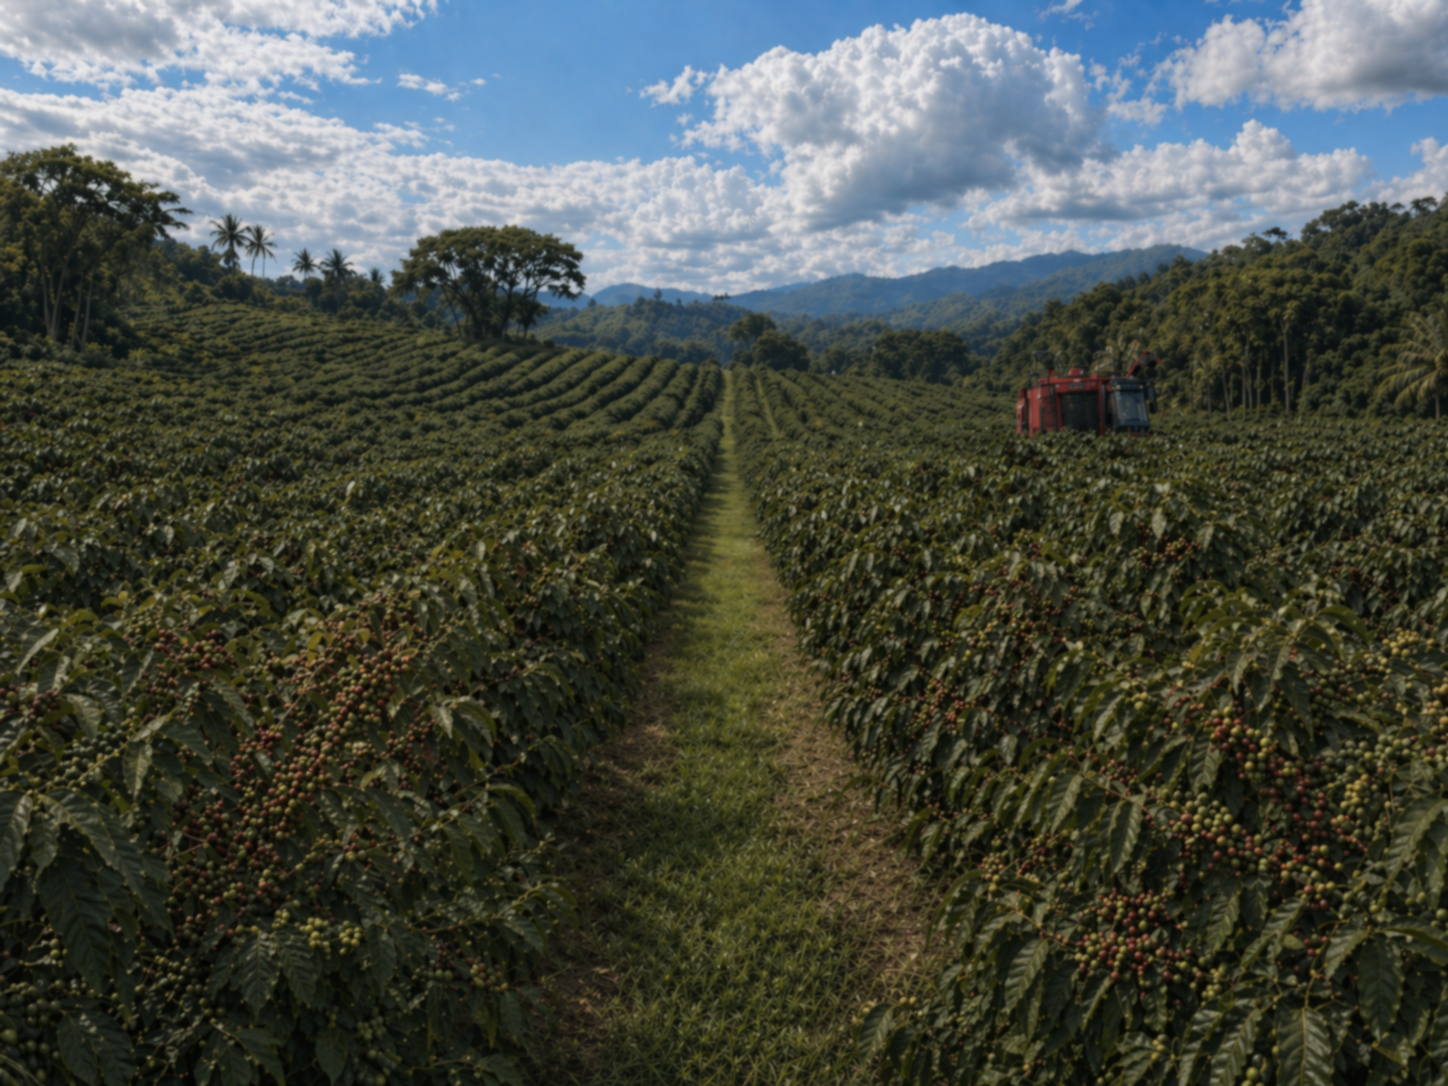
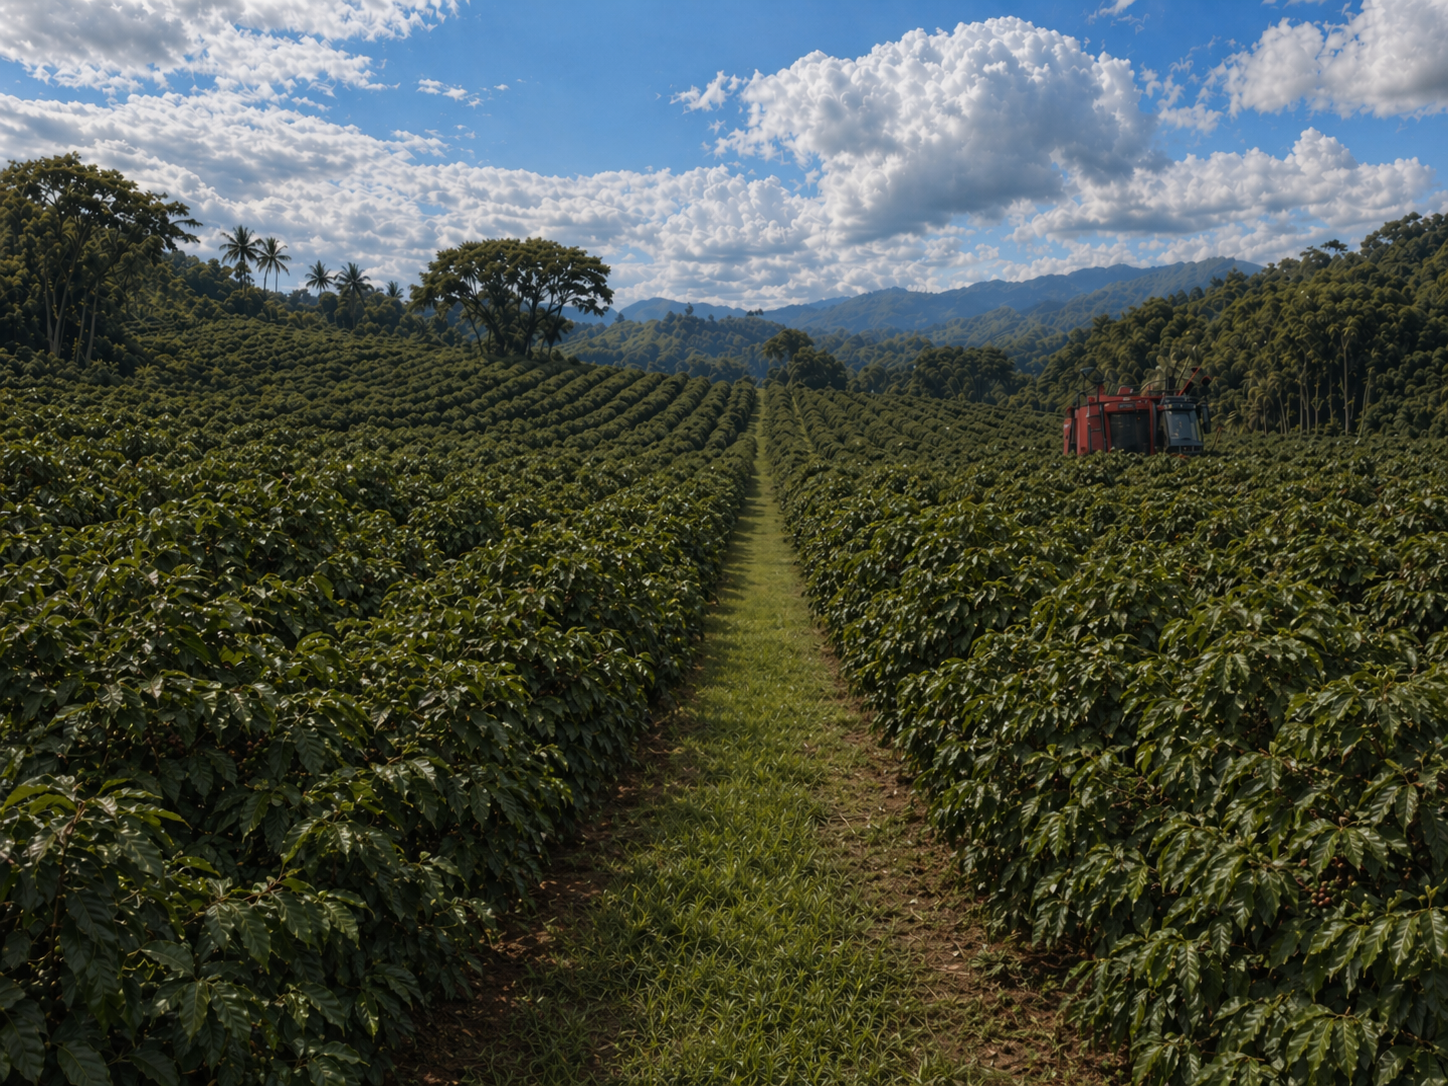
feat(hero): iteração final — título Poppins, depoimento com linha vertical, subtítulo compactado
- Tipografia do H1 do hero trocada para Poppins (self-hosted via @fontsource/poppins, weights 400/600/700/700-italic) pra manter respeito ao CSP em produção
- Depoimento do fundador: Gilson Aloise + "Fundador, Safras & Negócios" movidos ao lado do avatar com linha vertical branca; removida linha horizontal
- Frase do depoimento reduzida e em 2 linhas ("Palavra dada, safra entregue. / Tradição que atravessa safras.")
- Avatar menor (w-12 h-12 md:w-14 md:h-14)
- Linha 2 do título ("no mercado de" + "café"): alinhamento top mantido com pt-1 md:pt-1.5
- Subtítulo aproximado do título (mt-6 md:mt-8 lg:mt-10) e apoiado em barra vertical editorial
- Imagem de fundo trocada para lavoura com céu azul
- cafezal-aereo.jpg removido (não usado)
- scripts/capture-hero.mjs atualizado pra capturar área hero completa

diff --git a/src/styles/global.css b/src/styles/global.css
@@ -6,6 +6,10 @@
 @import "tailwindcss";
 @import "./tokens.css";
 @import "@fontsource-variable/inter";
+@import "@fontsource/poppins/400.css";
+@import "@fontsource/poppins/600.css";
+@import "@fontsource/poppins/700.css";
+@import "@fontsource/poppins/700-italic.css";
 
 html {
   font-family: var(--font-sans);
